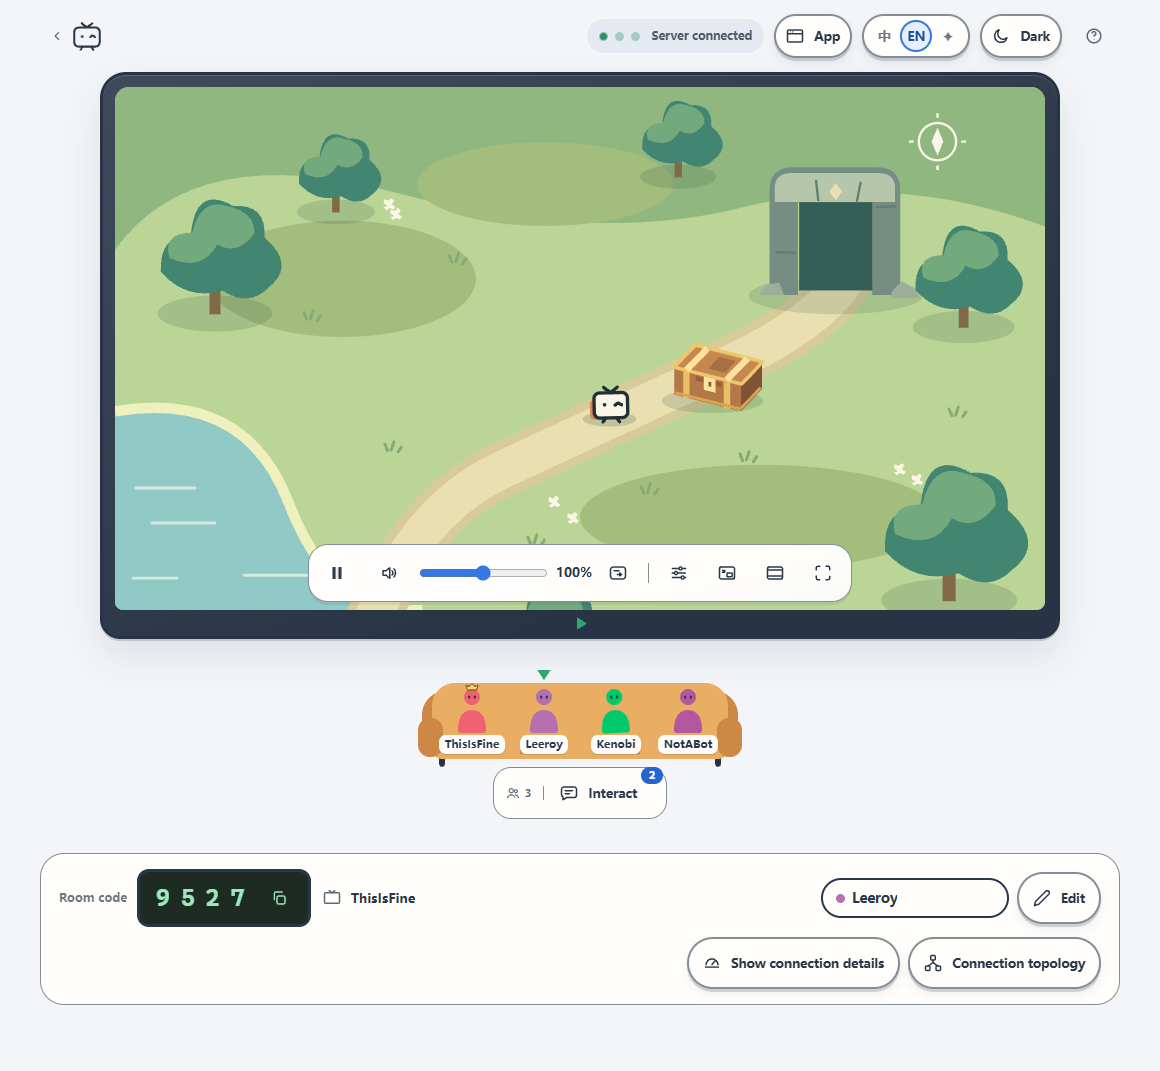
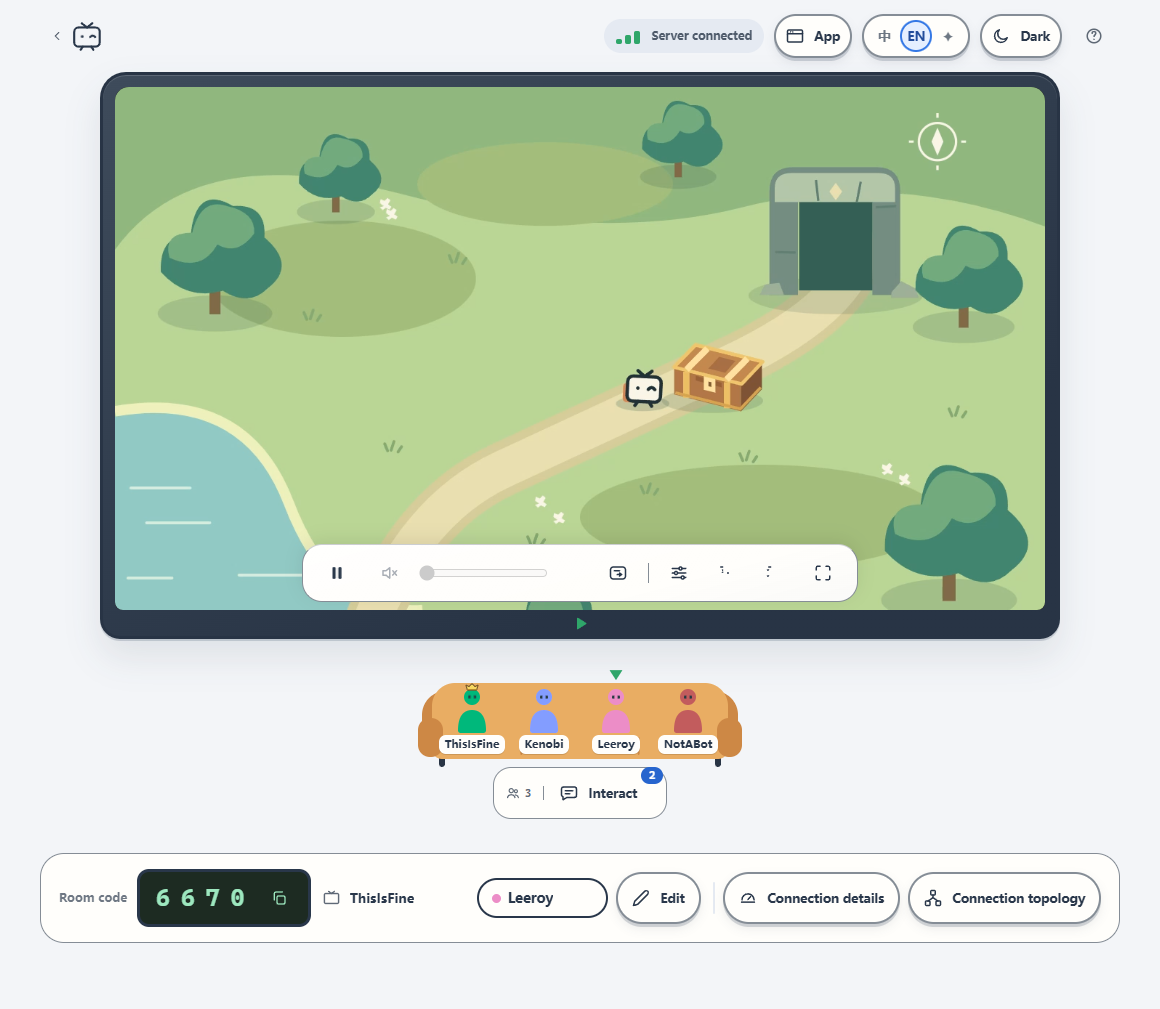
fix(ui): keep room tools and floating layouts consistent

diff --git a/src/client/pages/ControlsPreview.tsx b/src/client/pages/ControlsPreview.tsx
@@ -98,7 +98,7 @@ export function ControlsPreview() {
           <Btn icon="stop" tone="danger" title="host.stop" cap="host.stop" hint="hint-share-stop" onClick={notify} />
           <Btn icon={paused ? "play" : "pause"} title={paused ? "host.resume" : "host.pause"} cap={paused ? "host.resume" : "host.pause"}
             hint={paused ? "hint-resume" : "hint-pause"} draw="preview-pause" pressed={paused} onClick={() => setPaused(!paused)} />
-          <Btn icon="gauge" tone="on" title="host.details" cap="host.details" hint="hint-details" pressed onClick={notify} />
+          <Btn icon="gauge" tone="on" title="host.details.hide" cap="host.details" hint="hint-collapse" pressed onClick={notify} />
           <Btn icon="refresh" title="viewer.reconnect" cap="viewer.reconnect" hint="hint-reconnect" disabled />
           <Btn icon="cast" title="host.starting" cap="host.starting" busy disabled hint="hint-share-start" />
         </div>
@@ -106,7 +106,7 @@ export function ControlsPreview() {
           <Btn icon="switchSource" title="host.switchSource" hint="hint-switch-source" onClick={notify} />
           <Btn icon="link" title="host.invite.copy" hint="hint-copy-invite" onClick={notify} />
           <Btn icon="linkOff" title="host.invite.revoke" hint="hint-revoke-invite" onClick={notify} />
-          <Btn icon="network" title="host.topology" hint="hint-topology" onClick={notify} />
+          <Btn icon="network" title="host.topology.show" hint="hint-topology" onClick={notify} />
           <Btn icon="sliders" title="host.advanced" hint="hint-advanced" onClick={notify} />
         </div>
         <p>{en ? "The same button family has regular, compact and dense sizes. Quiet actions keep a usable target without a visible frame."

diff --git a/src/client/locales/en.ts b/src/client/locales/en.ts
@@ -56,7 +56,7 @@ export const en: Record<CopyKey, string> = {
   "remote.mode.room": "Room Viewers",
   "remote.mode.password": "Password",
   "remote.help.ask": "Decide whether to allow each control request.",
-  "remote.help.room": "Any Viewer in this room can control this computer when no one else is controlling it.",
+  "remote.help.room": "Any room Viewer can take control when no one else has it.",
   "remote.help.password": "Viewers can control this computer after entering the control password.",
   "remote.policyLifetime": "Applies to this shared source only. Changing sources or stopping turns remote control off.",
   "remote.password": "Control password",
@@ -582,7 +582,8 @@ export const en: Record<CopyKey, string> = {
   "host.advanced.codec.vp8Hint": "Compatibility first",
   "host.advanced.codec.h264Hint": "Hardware first",
 
-  "host.details": "Show connection details",
+  "host.details": "Connection details",
+  "host.details.show": "Show connection details",
   "host.details.hide": "Hide connection details",
   "host.topology": "Connection topology",
   "host.topology.show": "Show connection topology",

diff --git a/src/client/locales/zh.ts b/src/client/locales/zh.ts
@@ -56,7 +56,7 @@ export const zh = {
   "remote.mode.room": "房间观众",
   "remote.mode.password": "控制密码",
   "remote.help.ask": "收到请求后，由你决定是否允许控制。",
-  "remote.help.room": "本房间观众可直接取得空闲控制权，操作这台电脑。",
+  "remote.help.room": "无人控制时，房间观众可直接操作电脑。",
   "remote.help.password": "观众输入控制密码后，可操作这台电脑。",
   "remote.policyLifetime": "仅当前分享来源有效；换源或停播后关闭远控。",
   "remote.password": "控制密码",
@@ -582,7 +582,8 @@ export const zh = {
   "host.advanced.codec.vp8Hint": "兼容优先",
   "host.advanced.codec.h264Hint": "硬件优先",
 
-  "host.details": "显示连接详情",
+  "host.details": "连接详情",
+  "host.details.show": "显示连接详情",
   "host.details.hide": "隐藏连接详情",
   "host.topology": "连接拓扑",
   "host.topology.show": "显示连接拓扑",

diff --git a/src/client/styles.css b/src/client/styles.css
@@ -799,7 +799,7 @@ body.lr-theater-open .lr-top { visibility: hidden; }
 :is(.lr-host-summary-row, .lr-viewer-summary-row):has(.lr-group-name > [role="alert"]) { align-items: flex-start; }
 .lr-viewer-room-slot { flex: 0 0 auto; }
 .lr-viewer-host-slot {
-  flex: 0 1 auto;
+  flex: 1 1 96px;
   min-width: 0;
   max-width: 180px;
   min-height: 52px;
@@ -817,7 +817,7 @@ body.lr-theater-open .lr-top { visibility: hidden; }
 }
 .lr-viewer-self-slot {
   display: flex;
-  flex: 0 0 auto;
+  flex: 0 1 auto;
   align-items: center;
   gap: 8px;
   margin-left: 0;
@@ -1125,7 +1125,7 @@ body.lr-theater-open .lr-top { visibility: hidden; }
   height: 40px;
   border-radius: 999px;
 }
-.lr-group-name { width: 280px; max-width: 100%; }
+.lr-group-name { width: 224px; max-width: 100%; }
 .lr-group-name > [role="alert"] { flex-basis: 100%; }
 .lr-group-name > .lr-name-hint { flex: 1; width: 0; }
 .lr-group-name .lr-name-tag { width: 100%; }

diff --git a/src/client/components/living/FloatingPanel.tsx b/src/client/components/living/FloatingPanel.tsx
@@ -144,8 +144,9 @@ export function FloatingPanel({ id, trigger, title, icon, compact = false, ancho
     viewport?.addEventListener("resize", resize);
     viewport?.addEventListener("scroll", resize);
     window.addEventListener("resize", resize);
-    // Content-sized palettes still fit after a target, language or status change.
-    const observer = new ResizeObserver(resize);
+    // Content changes keep the chosen top-left corner; viewport changes above
+    // retain relative placement. Both still constrain the panel to the viewport.
+    const observer = new ResizeObserver(() => place({ x: panel.offsetLeft, y: panel.offsetTop }));
     observer.observe(panel);
     return () => {
       placePanel.current = null;

diff --git a/src/client/components/living/remote-control.css b/src/client/components/living/remote-control.css
@@ -19,7 +19,8 @@
 .lr-remote-modes > .lr-comic-tip-wrap { min-width: 0; }
 .lr-remote-modes button { min-width: 0; padding: 6px 4px; line-height: 1.3; white-space: normal; }
 .lr-remote-policy-actions { display: flex; align-items: center; gap: 8px; }
-.lr-remote-settings > .lr-remote-policy-actions > * { flex: 1; }
+.lr-remote-settings > .lr-remote-policy-actions { display: grid; grid-auto-flow: column; grid-auto-columns: minmax(0, 1fr); }
+.lr-remote-settings > .lr-remote-policy-actions > * { min-width: 0; }
 .lr-remote-settings .lr-remote-policy-actions .lr-btn { width: 100%; }
 .lr-remote-policy-actions .lr-input { flex: 1; min-width: 0; }
 .lr-remote-policy-actions .lr-input input { min-width: 0; width: 100%; }

diff --git a/site/film/ui/main.tsx b/site/film/ui/main.tsx
@@ -318,7 +318,7 @@ function Screen({ shot }: { shot: Shot }) {
                   <Btn icon="pencil" cap="common.edit" title="host.nameEdit" hint="hint-rename" />
                 </div>
                 <div className={`lr-row-group lr-group-actions ${viewer ? "lr-viewer-actions-slot" : "lr-host-diagnostics-slot"}`}>
-                  <Btn icon="gauge" cap="host.details" title="host.details" hint="hint-details" disabled={!live} />
+                  <Btn icon="gauge" cap="host.details" title="host.details.show" hint="hint-details" disabled={!live} />
                   <Btn icon="network" cap="host.topology" title="host.topology.show" hint="hint-topology" />
                 </div>
               </div>

diff --git a/src/client/pages/ViewerPage.tsx b/src/client/pages/ViewerPage.tsx
@@ -2547,7 +2547,7 @@ export function ViewerPage({
                     icon="gauge"
                     cap="host.details"
                     title={
-                      showConnectionDetails ? "host.details.hide" : "host.details"
+                      showConnectionDetails ? "host.details.hide" : "host.details.show"
                     }
                     hint={showConnectionDetails ? "hint-collapse" : "hint-details"}
                     tone={showConnectionDetails ? "on" : undefined}

diff --git a/src/client/pages/HostPage.tsx b/src/client/pages/HostPage.tsx
@@ -4097,7 +4097,7 @@ export function HostPage({
                   title={
                     showConnectionDetails
                       ? "host.details.hide"
-                      : "host.details"
+                      : "host.details.show"
                   }
                   hint={showConnectionDetails ? "hint-collapse" : "hint-details"}
                   tone={showConnectionDetails ? "on" : undefined}

diff --git a/src/client/components/living/Metrics.tsx b/src/client/components/living/Metrics.tsx
@@ -230,7 +230,7 @@ export function MetricCells({
       }}
     >
       <Glyph name="chevron" size={15} />
-      {vis ? null : <span className="lr-cap">{moreTitle}</span>}
+      {vis ? null : <span className="lr-cap">{t("stats.more")}</span>}
     </button>
   );
 

diff --git a/docs/standards/visual-language.md b/docs/standards/visual-language.md
@@ -247,7 +247,9 @@ the colour, outline and selected position without decorative displacement.
 The shared button uses the same pressed value for `aria-pressed` and its selected
 treatment; active state remains distinct from hover in both themes.
 Disclosure buttons keep a stable visible caption, while their expanded state and
-accessible action describe opening or closing. Neutral panel borders stay quieter
+accessible action describe opening or closing. Related tool captions use the same
+grammatical form: name the feature rather than mixing feature names with instructions
+to show them. Neutral panel borders stay quieter
 than the controls inside them; nested diagnostic panels retain their softer fill.
 Keep room identity, invitation and admission controls ahead of expanded topology
 and connection details, so inspecting a route does not displace room actions.
